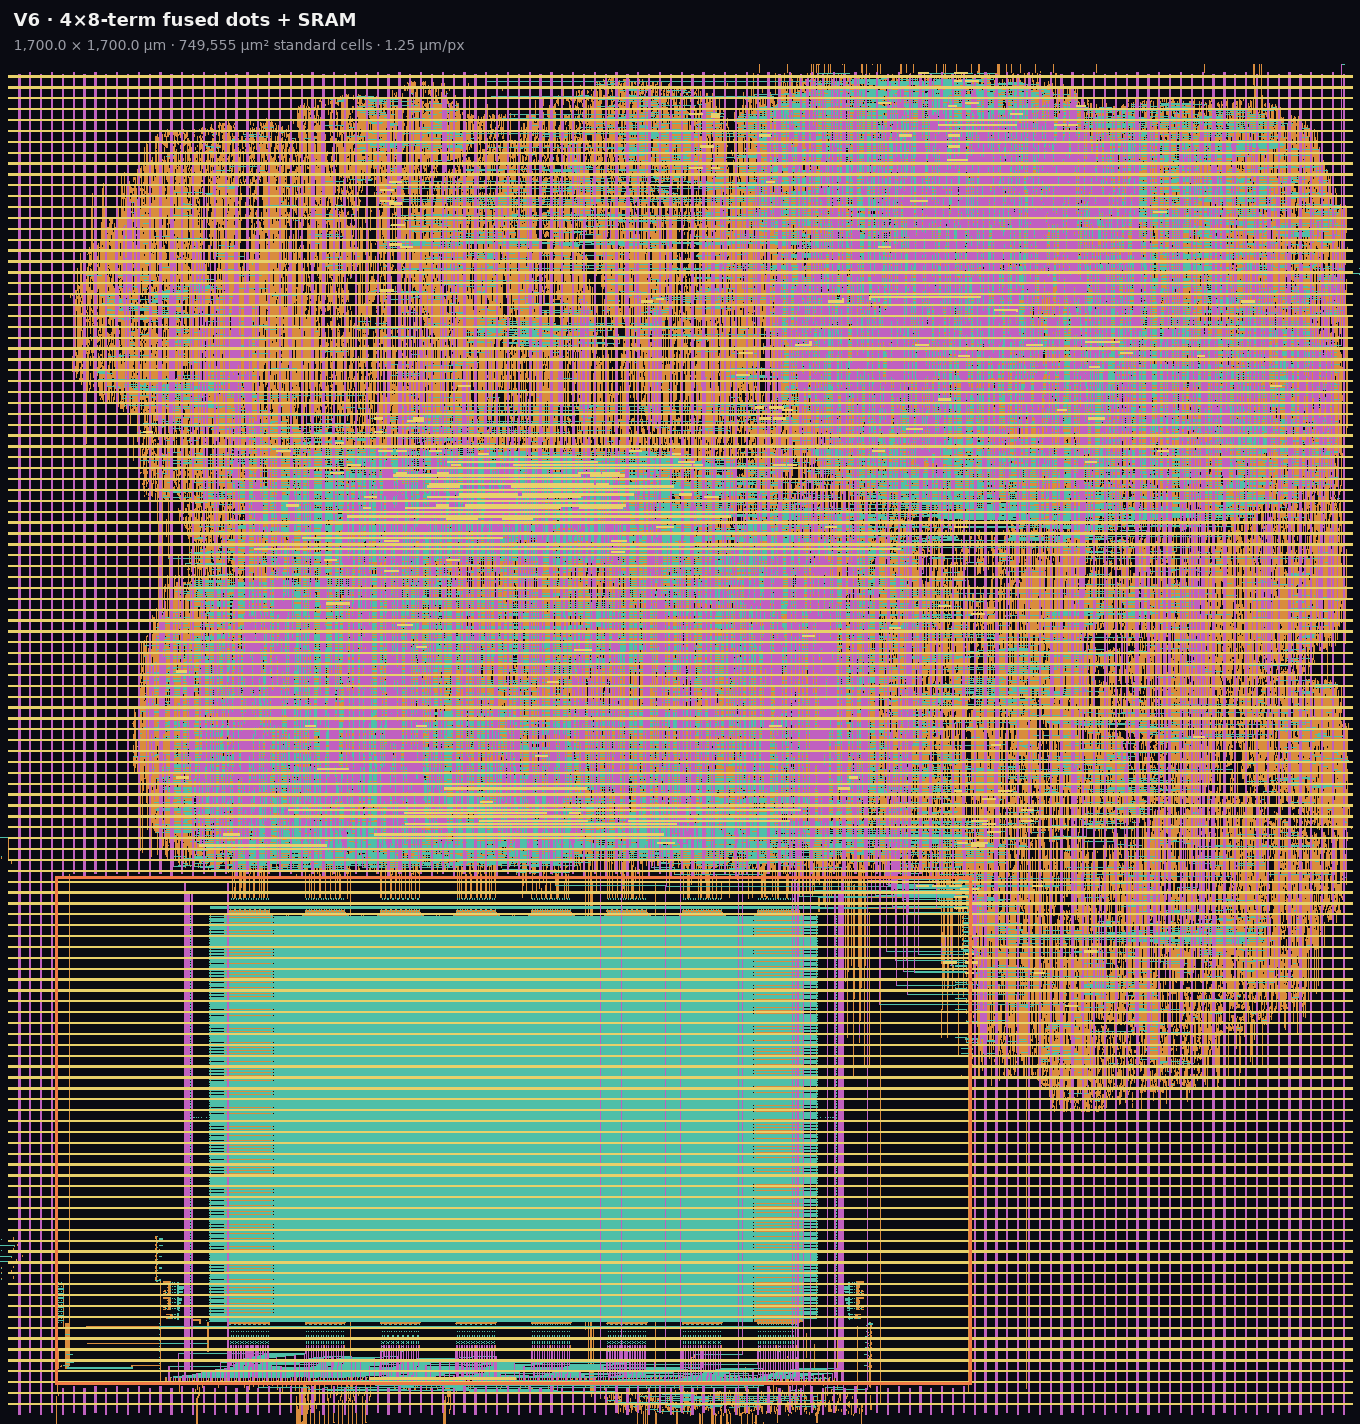
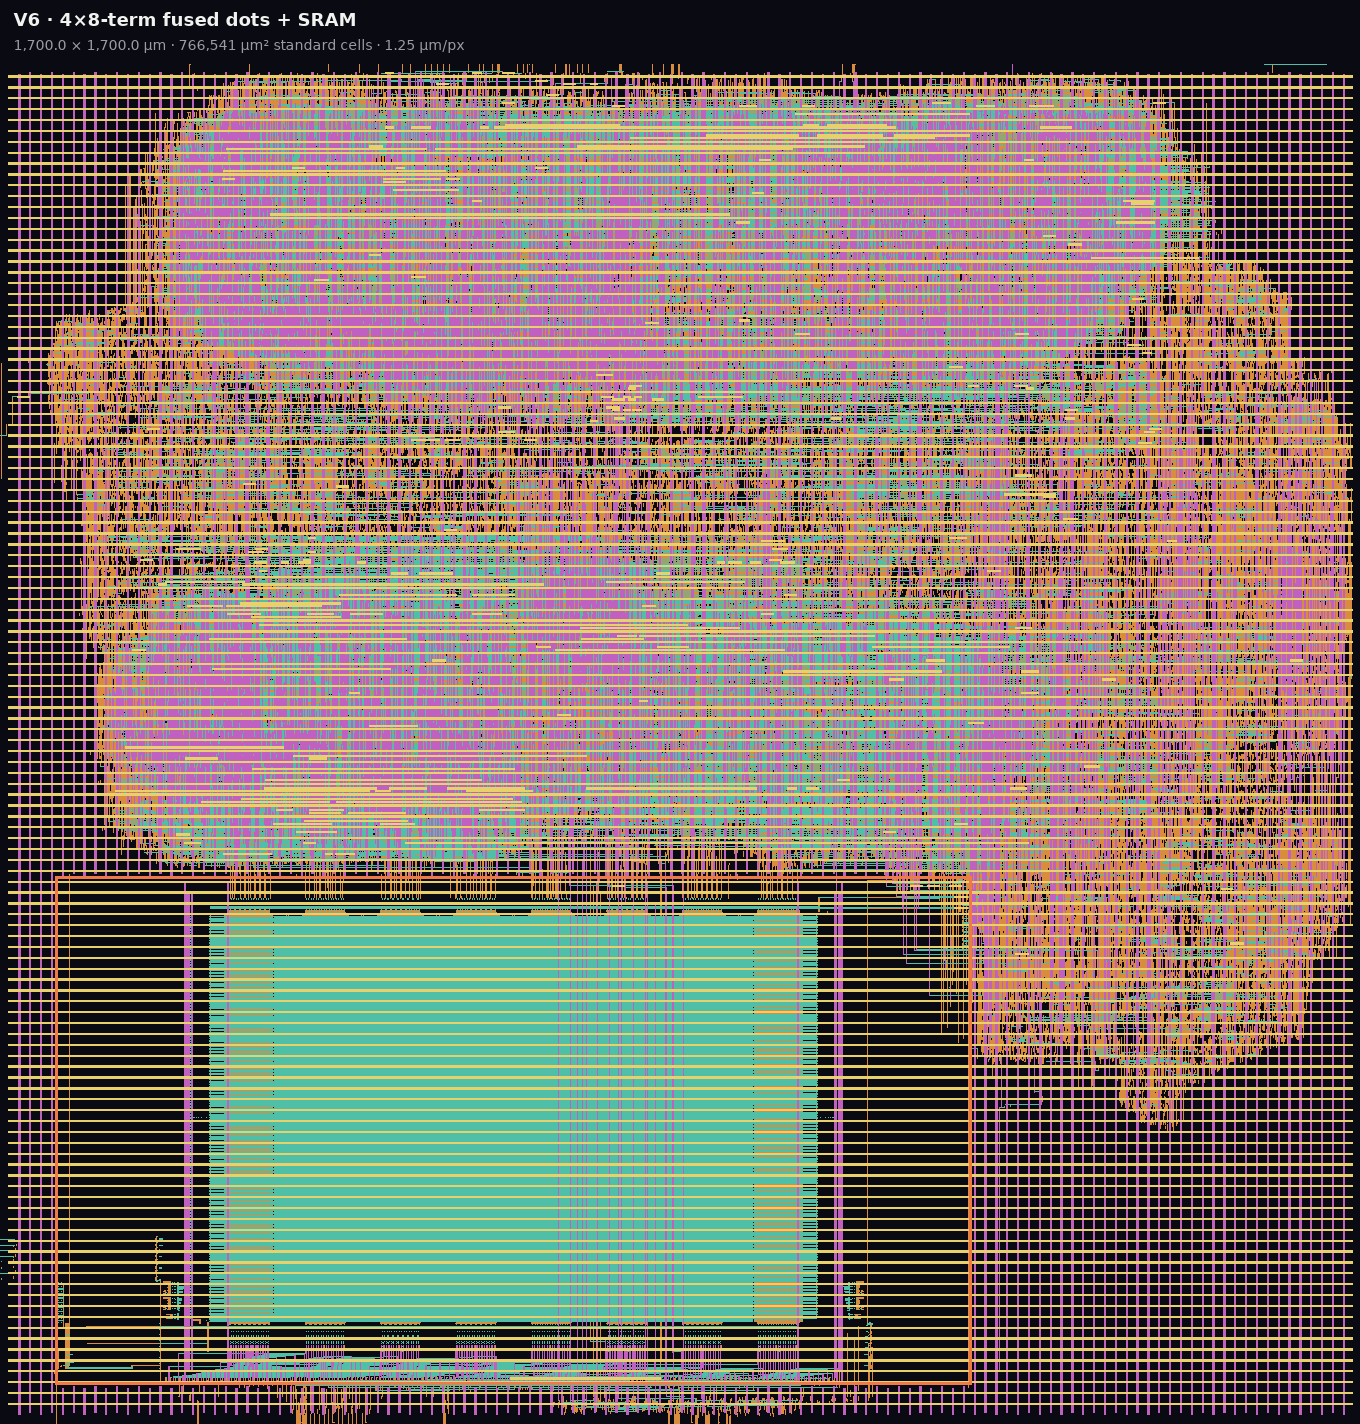
Re-render V6 layout figures from the new route

Changed region(s): [[0.0309, 0.0309, 1.0, 0.8034], [0.2162, 0.927, 0.6485, 1.0]]

diff --git a/docs/physical-flow.md b/docs/physical-flow.md
@@ -40,7 +40,7 @@ For an eventual shared-shuttle test chip, [Tiny Tapeout's local hardening guide]
 | V5 | SRAM scratchpad and GEMM sequencer in front of V4 (retired, no GDS kept) | — | — | — |
 | V6 | Four fused 8-term dot products behind the scratchpad | 1,700 | 766,541 | 50.16 |
 
-Values come from each tile's `build/layout*/metrics.json`; fmax is the flow's timing estimate, not a retargeted build. V1 and V2 used different clock targets from V3 onward. Per-version renders: `docs/img/layout-{v1,v2,v3,v4,v6,mac8}.png`. The V6 images on this page come from its 2026-10-19 route, before the dot-product pipeline stages; the table has the 2026-11-12 re-route.
+Values come from each tile's `build/layout*/metrics.json`; fmax is the flow's timing estimate, not a retargeted build. V1 and V2 used different clock targets from V3 onward. Per-version renders: `docs/img/layout-{v1,v2,v3,v4,v6,mac8}.png`.
 
 ![30 × 20 µm of placed V6 standard cells and routing](img/layout-zoom-v6.png)
 
@@ -52,7 +52,7 @@ Values come from each tile's `build/layout*/metrics.json`; fmax is the flow's ti
 
 ![Setup and hold slack of every V6 timing endpoint](img/v6-slack-histogram.png)
 
-*Setup and hold slack of all 19,390 V6 endpoints from OpenSTA on the final netlist and SPEF; worst setup +2.80 ns and hold +0.24 ns match that route's metrics (the re-route: +5.06 / +0.17 ns). V4's endpoint reports were not kept, so only its worst setup slack is marked.*
+*Setup and hold slack of all 20,616 V6 endpoints from OpenSTA on the final netlist and SPEF; worst setup +5.06 ns and hold +0.17 ns match the flow's metrics. V4's endpoint reports were not kept, so only its worst setup slack is marked.*
 
 ![Standard-cell area by module, V4 and V6](img/area-by-module.png)
 
